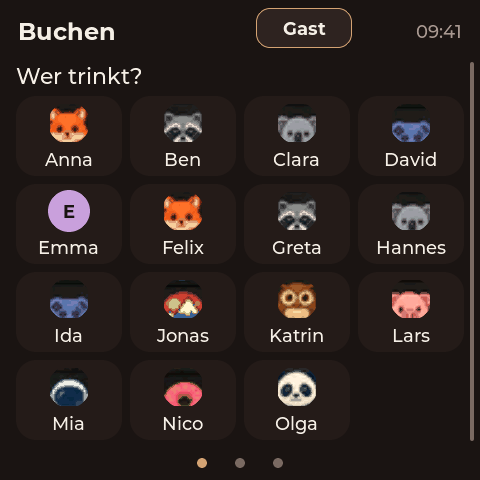
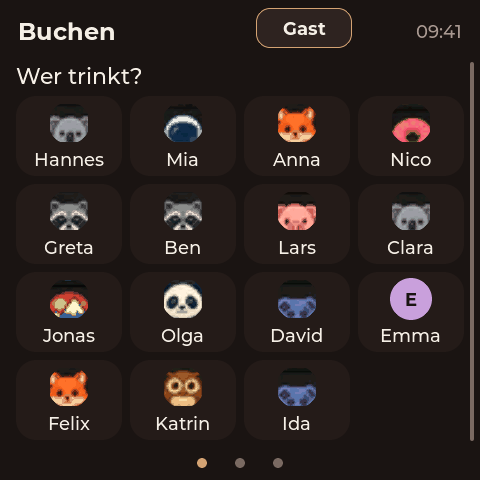
feat: sort the booking tiles by consumption by default (#20)
The owner's requirement is that regulars sit on the first tiles, so `usage`
becomes the default for `user_sort`; `creation` stays one click away in the
admin UI. A fresh device and any device that never saved settings come up
sorted.

A browser-synced kiosk reports `time_trusted=0`, so the ordering guard now only
requires a set clock (`now > 0`) instead of a trusted one - otherwise the device
would silently fall back to the join order.

The simulator mirrors the new default and its `--order` flag now defaults to
`usage`; the 15- and 30-member frames are regenerated.

Also adds `settings user-sort [<creation|usage>]` to the serial console: without
an AP/STA there is no other headless way to read or change the app setting, and
it is the setting worth verifying on HIL. Writing needs the write unlock.

diff --git a/web/src/pages/SettingsPage.tsx b/web/src/pages/SettingsPage.tsx
@@ -45,7 +45,7 @@ function SettingsForm({ initial }: { initial: Settings }) {
   const [guestEnabled, setGuestEnabled] = useState(initial.app.guest_enabled);
   // Older firmware replies without the field; fall back to the default order.
   const [userSort, setUserSort] = useState<UserSort>(
-    initial.app.user_sort === "usage" ? "usage" : "creation",
+    initial.app.user_sort === "creation" ? "creation" : "usage",
   );
   const [debtLimit, setDebtLimit] = useState(inputFromCents(initial.app.max_open_debt_cents));
   const [lowBalance, setLowBalance] = useState(inputFromCents(initial.app.low_balance_warning_cents));

diff --git a/firmware/main/serial_console.cpp b/firmware/main/serial_console.cpp
@@ -263,6 +263,7 @@ class SerialConsole {
         if (command == "setup-password") return cmd_setup_password();
         if (command == "time") return cmd_time(tokens);
         if (command == "display") return cmd_display(tokens);
+        if (command == "settings") return cmd_settings(tokens);
         if (command == "ui") return cmd_ui(tokens);
         if (command == "book") return cmd_book(tokens);
         if (command == "void") return cmd_void(tokens);
@@ -275,8 +276,8 @@ class SerialConsole {
 
     void cmd_help() {
         reply(
-            "OK help commands=help,status,ap,setup-password,time,display,ui,book,void,"
-            "unlock-writes,backup,factory-reset,reboot");
+            "OK help commands=help,status,ap,setup-password,time,display,settings,ui,book,"
+            "void,unlock-writes,backup,factory-reset,reboot");
     }
 
     void cmd_status() {
@@ -467,6 +468,34 @@ class SerialConsole {
             return;
         }
         reply_error("display-usage", "display [test|info|rotation <deg>|brightness <0..100>]");
+    }
+
+    // Booking-page ordering: read it, or set it with the write unlock. There is
+    // no other headless way to change an app setting when the admin UI is not
+    // reachable (no AP/STA), and it is the setting most worth verifying on HIL.
+    void cmd_settings(const std::vector<std::string>& tokens) {
+        if (tokens.size() == 3 && tokens[1] == "user-sort") {
+            if (!writes_allowed()) {
+                return reply_error("writes-disabled",
+                                   "run 'unlock-writes <admin_password>' first (HIL only)");
+            }
+            const UserSortOrder order = user_sort_from_string(tokens[2], UserSortOrder::Usage);
+            if (tokens[2] != "creation" && tokens[2] != "usage") {
+                return reply_error("settings-usage", "settings user-sort <creation|usage>");
+            }
+            Settings settings = service_.settings();
+            settings.app.user_sort = order;
+            auto saved = service_.save_settings(settings, new_request_id());
+            if (!saved) return reply_error(saved.error->code, saved.error->message);
+            reply("OK settings user-sort %s", user_sort_to_string(order));
+            return;
+        }
+        if (tokens.size() == 2 && tokens[1] == "user-sort") {
+            reply("OK settings user-sort=%s",
+                  user_sort_to_string(service_.app_settings().user_sort));
+            return;
+        }
+        reply_error("settings-usage", "settings user-sort [<creation|usage>]");
     }
 
     void cmd_display_info() {

diff --git a/tests/host/domain_test.cpp b/tests/host/domain_test.cpp
@@ -299,15 +299,17 @@ TEST_CASE("user sort setting round trips and rejects unknown spellings") {
     auto broken = j;
     broken["app"]["user_sort"] = "alphabetical";
     Settings base;
-    CHECK(settings_from_json(broken, base).app.user_sort == UserSortOrder::Creation);
+    CHECK(base.app.user_sort == UserSortOrder::Usage);
+    CHECK(settings_from_json(broken, base).app.user_sort == UserSortOrder::Usage);
 
-    // A blob without the key keeps whatever the caller passed in.
+    // A blob without the key keeps whatever the caller passed in (the default
+    // for a fresh device is "usage", see AppSettings).
     auto legacy = j;
     legacy["app"].erase("user_sort");
-    CHECK(settings_from_json(legacy, base).app.user_sort == UserSortOrder::Creation);
-    Settings usage_base;
-    usage_base.app.user_sort = UserSortOrder::Usage;
-    CHECK(settings_from_json(legacy, usage_base).app.user_sort == UserSortOrder::Usage);
+    CHECK(settings_from_json(legacy, base).app.user_sort == UserSortOrder::Usage);
+    Settings creation_base;
+    creation_base.app.user_sort = UserSortOrder::Creation;
+    CHECK(settings_from_json(legacy, creation_base).app.user_sort == UserSortOrder::Creation);
 }
 
 TEST_CASE("avatar choices persist through user events and leave balances unchanged") {

diff --git a/firmware/components/domain/include/kaffee/settings.hpp b/firmware/components/domain/include/kaffee/settings.hpp
@@ -33,9 +33,9 @@ struct TimeSettings {
     std::string sntp_server = "pool.ntp.org";
 };
 
-// Order of the member tiles on the device booking page. Creation keeps the
-// join order; Usage puts the members with the most bookings in the current
-// month first, so regulars do not have to scroll.
+// Order of the member tiles on the device booking page. Usage (default) puts
+// the members with the most bookings in the current month first, so regulars do
+// not have to scroll; Creation keeps the join order.
 enum class UserSortOrder {
     Creation,
     Usage,
@@ -51,7 +51,7 @@ struct AppSettings {
     bool guest_enabled = true;
     int max_open_debt_cents = 0;            // 0 = no hard limit
     int low_balance_warning_cents = -1000;  // warn below -10 EUR
-    UserSortOrder user_sort = UserSortOrder::Creation;
+    UserSortOrder user_sort = UserSortOrder::Usage;
 };
 
 struct AdminCredentials {

diff --git a/sim/src/main.cpp b/sim/src/main.cpp
@@ -24,7 +24,7 @@ struct Options {
     std::string state = "idle";
     int users = 0;
     int scroll = 0;
-    std::string order = "creation";
+    std::string order = "usage";
     bool click_test = false;
     bool help = false;
 };
@@ -45,7 +45,8 @@ void print_usage(const char* argv0) {
         "          [--click-test]\n\n"
         "  --users N   grow the seeded fund to N active members (N >= 5)\n"
         "  --scroll PX scroll the page-1 member list down by PX before capturing\n"
-        "  --order     member order; `usage` = most bookings this month first\n\n"
+        "  --order     member order; `usage` (default) = most bookings this\n"
+        "              month first, `creation` = join order\n\n"
         "Mouse = touch. Keys: 1/2/3 pages, r rotation, +/- brightness, q quit.\n",
         argv0);
 }

diff --git a/firmware/components/ui/src/page_book.cpp b/firmware/components/ui/src/page_book.cpp
@@ -55,10 +55,11 @@ MemberOrder UiAppImpl::ordered_members() const {
     }
     if (backend_.app_settings().user_sort != UserSortOrder::Usage) return order;
 
-    // "This month" is meaningless without a trusted clock, and an unsynced
-    // device must not shuffle the grid: keep the join order in that case.
+    // The month only needs a plausible wall clock; `trusted` tracks NTP quality
+    // and must not disable ordering, because a browser-synced kiosk reports
+    // time_trusted=0. An unset clock (0) keeps the join order.
     const TimeInfo time = backend_.time_info();
-    if (time.now <= 0 || !time.trusted) return order;
+    if (time.now <= 0) return order;
 
     Timestamp from = 0;
     Timestamp to = 0;

diff --git a/sim/src/fake_backend.hpp b/sim/src/fake_backend.hpp
@@ -97,7 +97,8 @@ class FakeBackend final : public kaffee::IUiBackend {
 
     bool time_trusted_ = true;
     bool guest_enabled_ = true;
-    bool usage_order_ = false;
+    // Mirrors AppSettings::user_sort, whose default is Usage.
+    bool usage_order_ = true;
     int request_counter_ = 0;
 };
 

diff --git a/docs/adr/0015-booking-tile-order.md b/docs/adr/0015-booking-tile-order.md
@@ -17,8 +17,10 @@ nothing about balances, the journal or the backup schema changes.
 ## Decision
 
 - **One new persisted setting** in `AppSettings`: `user_sort` with the values
-  `creation` (default, today's join order) and `usage` (most bookings in the
-  current month first). It is part of the settings blob, `GET/PUT /settings`,
+  `usage` and `creation`. `usage` is the default: the owner's requirement is that
+  the members who book most sit first, so a fresh device and a device that never
+  saved settings both come up sorted; `creation` restores the join order and
+  stays one click away in the admin UI. It is part of the settings blob, `GET/PUT /settings`,
   backup export/import, and the admin **Einstellungen** page. Unknown spellings
   are rejected by a live `PUT` and fall back to the stored value when read from
   an older or hand-edited blob.
@@ -31,8 +33,9 @@ nothing about balances, the journal or the backup schema changes.
 - **The period is the current month (Europe/Berlin).** It rewards current habits
   and reuses the existing month-bounds helper. A rolling window can be added as
   another enum value later without touching the wire format.
-- **No trusted clock, no reordering.** With an unsynced clock the month is
-  meaningless, so the grid keeps the join order instead of shuffling.
+- **No clock, no reordering.** The month only needs a plausible wall clock, so a
+  browser-synced kiosk (`time_trusted=0`, `source=browser`) still sorts; only an
+  unset clock (`now == 0`) keeps the join order.
 - **The page-1 catalog fingerprint covers the order.** It iterates the members
   in display order, so a re-order rebuilds page 1 and an unchanged order does
   not — the same trap `avatar_id` hit in ADR 0014.

diff --git a/docs/tasks/T-013-user-sort-by-consumption.md b/docs/tasks/T-013-user-sort-by-consumption.md
@@ -24,8 +24,8 @@ default (today's order stays the default).
 ## Scope
 
 1. **Setting.** `AppSettings` gains an explicit sort mode (not a bare bool, so a
-   third order can be added later): `user_sort = creation | usage`, default
-   `creation`. Persisted with the other app settings, validated on import,
+   third order can be added later): `user_sort = usage | creation`, default
+   `usage`. Persisted with the other app settings, validated on import,
    exposed in `GET/PUT /settings` and in `docs/api/openapi.yaml`, shown as a
    select/switch in the admin **Einstellungen** page with German copy, and
    applied on the device without a reboot (the settings change already notifies
@@ -49,10 +49,11 @@ default (today's order stays the default).
 
 ## Acceptance
 
-- `user_sort = usage`: a user with more bookings this month is rendered above a
-  user with fewer, and the order matches page 2's ranking for the same period.
-- `user_sort = creation` (default): byte-identical page 1 to `main`'s current
-  behaviour; existing devices are unaffected after upgrade.
+- `user_sort = usage` (default): a user with more bookings this month is rendered
+  above a user with fewer, and the order matches page 2's ranking for the same
+  period.
+- `user_sort = creation`: byte-identical page 1 to the pre-T-013 behaviour;
+  selectable in the admin UI.
 - Toggling in the admin UI changes the device order without a reboot, and the
   value round-trips through backup/restore and `GET/PUT /settings`.
 - Invalid/unknown values are rejected by the API and fall back to `creation`

diff --git a/docs/serial-cli.md b/docs/serial-cli.md
@@ -44,6 +44,7 @@ python3 tools/settime.py --epoch 1762819200 --source manual
 | `display info` | `OK display info rotation=<deg> brightness=<pct> active=<pct> idle=<pct> backlight=<0\|1> width=480 height=480 pclk_hz=<hz> hsync_pulse=<n> hsync_back=<n> hsync_front=<n> vsync_pulse=<n> vsync_back=<n> vsync_front=<n>` | Current display settings and RGB timing. |
 | `display rotation <0\|90\|180\|270>` | `OK display rotation <deg>` | Change and persist the display rotation. |
 | `display brightness <0..100>` | `OK display brightness <pct>` | Persist 5–100%; 0–4 is a temporary diagnostic level (0 = backlight off). |
+| `settings user-sort [<creation\|usage>]` | `OK settings user-sort=<value>` / `OK settings user-sort <value>` | Read or set the booking-page member order. Writing needs the write unlock; the default is `usage` (most bookings this month first). |
 | `ui page` | `OK ui page <0\|1\|2>` | Current LVGL page (read-only). |
 | `ui tap <x> <y>` | `OK ui tap x=<x> y=<y>` | Test/HIL-only: inject a synthetic press/release at raw panel coordinates through the real LVGL indev/hit-test path. Requires the write unlock. |
 | `ui swipe <x1> <y1> <x2> <y2>` | `OK ui swipe x1=<x1> y1=<y1> x2=<x2> y2=<y2>` | Test/HIL-only: inject a press-drag-release gesture through the real LVGL indev. Requires the write unlock. |

diff --git a/docs/ui.md b/docs/ui.md
@@ -10,10 +10,10 @@ dot to change pages; product taps never trigger navigation.
 - Idle: name tiles with one of 30 distinct static cartoon illustrations (IDs 1–30)
   and an initials-only fallback (ID 0); the name is always shown next to the
   artwork. Optional `Gast · Bar` tile, always the last tile.
-- Ordering: join order by default. With the admin setting
-  **Reihenfolge der Benutzer** set to `Meistgebuchte zuerst`, the member tiles are
-  ordered by their booking count for the current month (most first, ties by
-  name, members without a booking last); guest sales never count. An unsynced
+- Ordering: **by consumption by default** — the member tiles are ordered by
+  their booking count for the current month (most first, ties by name, members
+  without a booking last). The admin setting **Reihenfolge der Benutzer** can
+  switch to `Wie angelegt` (join order). Guest sales never count, and an unset
   clock keeps the join order. See ADR 0015.
 - Sized for 30+ members: the grid stays readable and touchable at that count and
   degrades gracefully beyond it; see `docs/tasks/T-013-page1-layout.md`.
